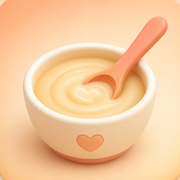
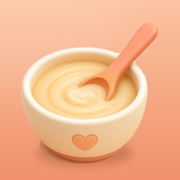
앱 아이콘 다듬기 + 홈 화면 앱(manifest) 지원
- 아이콘 배경을 조금 진하게 해 작은 크기에서도 그릇이 잘 보이게
- 그림을 안쪽으로 줄여 안드로이드 원형 아이콘에서 스푼이 잘리지 않게
- 안드로이드용 192·512 아이콘과 manifest.webmanifest 추가 (홈 화면 설치)
- 앱 상단 로고를 이모지 대신 같은 아이콘으로
- 버전 2026.11.17c

Claude-Session: https://claude.ai/code/session_018ivPt5yLKSk8LWvS2qUT9f

diff --git a/index.html b/index.html
@@ -6,8 +6,10 @@
 <meta name="theme-color" content="#FFFBF7">
 <meta name="apple-mobile-web-app-capable" content="yes">
 <meta name="robots" content="noindex, nofollow">
-<link rel="icon" href="favicon.ico?v=2" sizes="any">
-<link rel="apple-touch-icon" href="apple-touch-icon.png?v=2">
+<link rel="icon" href="favicon.ico?v=3" sizes="any">
+<link rel="apple-touch-icon" href="apple-touch-icon.png?v=3">
+<link rel="manifest" href="manifest.webmanifest?v=3">
+<meta name="mobile-web-app-capable" content="yes">
 <meta name="apple-mobile-web-app-title" content="우리 아기 이유식">
 <title>우리 아기 이유식 노트</title>
 <style>
@@ -58,6 +60,7 @@ button{font-family:inherit}
 .brand{display:flex;align-items:center;gap:10px;min-width:0}
 .brand-mark{width:42px;height:42px;border-radius:14px;display:flex;align-items:center;justify-content:center;font-size:21px;flex:0 0 auto;
   background:linear-gradient(150deg,#FFE1CE,#FFEFE2);box-shadow:0 2px 10px rgba(222,138,110,.16)}
+.brand-mark img{display:block;width:100%;height:100%;border-radius:inherit;object-fit:cover}
 .brand h1{margin:0;font-size:17px;font-weight:800;letter-spacing:-.02em;line-height:1.2}
 .brand p{margin:3px 0 0;font-size:11.5px;color:var(--muted);font-weight:600;letter-spacing:-.01em;line-height:1.42}
 .brand p .meta-main{color:#A9765C;font-weight:800}
@@ -464,7 +467,7 @@ details[open] .chev{transform:rotate(180deg)}
 <div class="app">
   <header class="topbar">
     <div class="brand">
-      <div class="brand-mark">🥣</div>
+      <div class="brand-mark"><img src="brand-mark.png?v=3" alt="" width="42" height="42"></div>
       <div>
         <h1 id="appTitle">우리 아기 이유식 노트</h1>
         <p id="topMeta">불러오는 중…</p>
@@ -522,7 +525,7 @@ var KEY='yebin-iyuk-planner-v1';
 var UNDO_KEY=KEY+'-undo';
 var CORRUPT_KEY=KEY+'-corrupt';
 var BACKUP_KEY=KEY+'-backup';      /* 이 기기에서 마지막으로 백업한 때 · 알림 미루기 (기기별) */
-var APP_VERSION='2026.11.17b';
+var APP_VERSION='2026.11.17c';
 var BACKUP_EVERY=30;               /* 며칠마다 백업을 권할지 */
 var bootCorrupt=false;
 var sheetScrollY=0;
